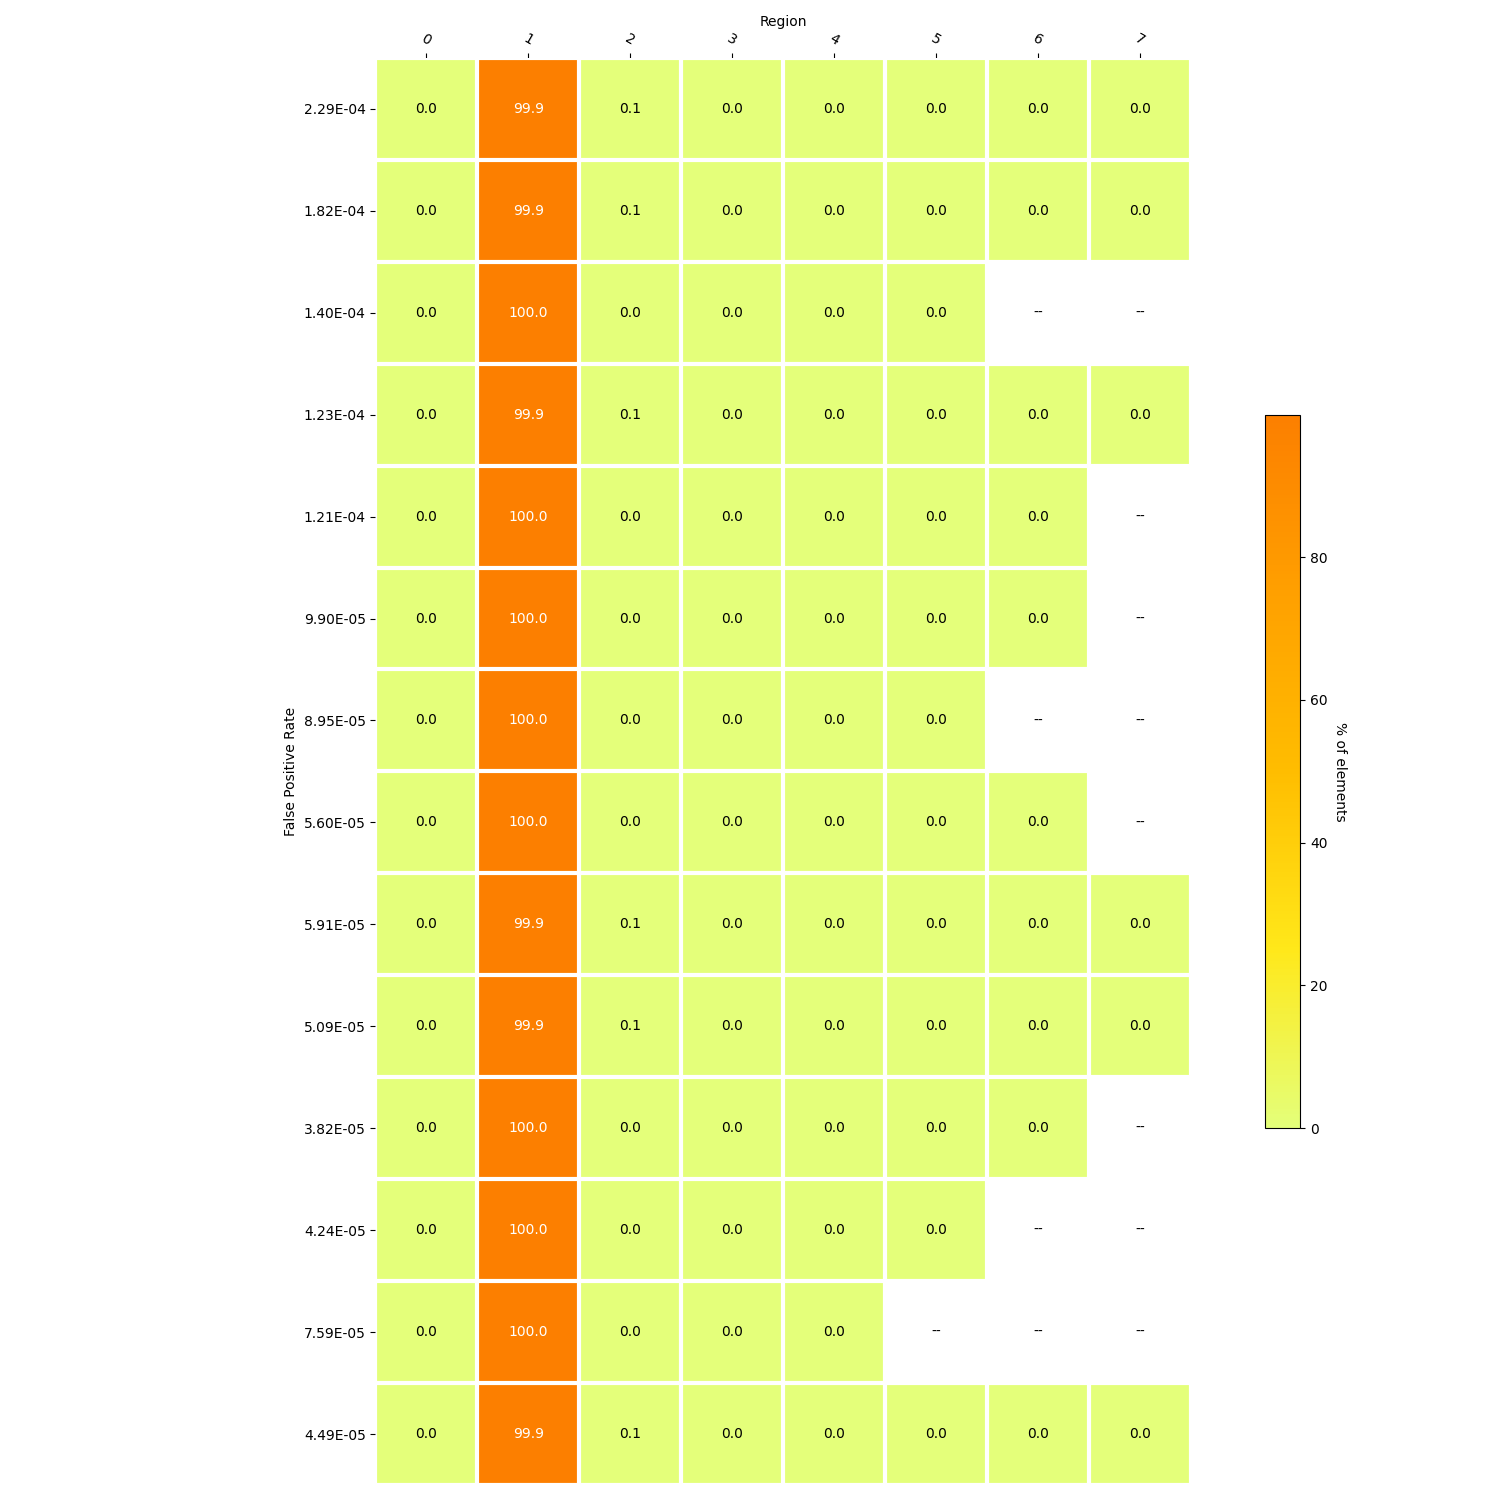
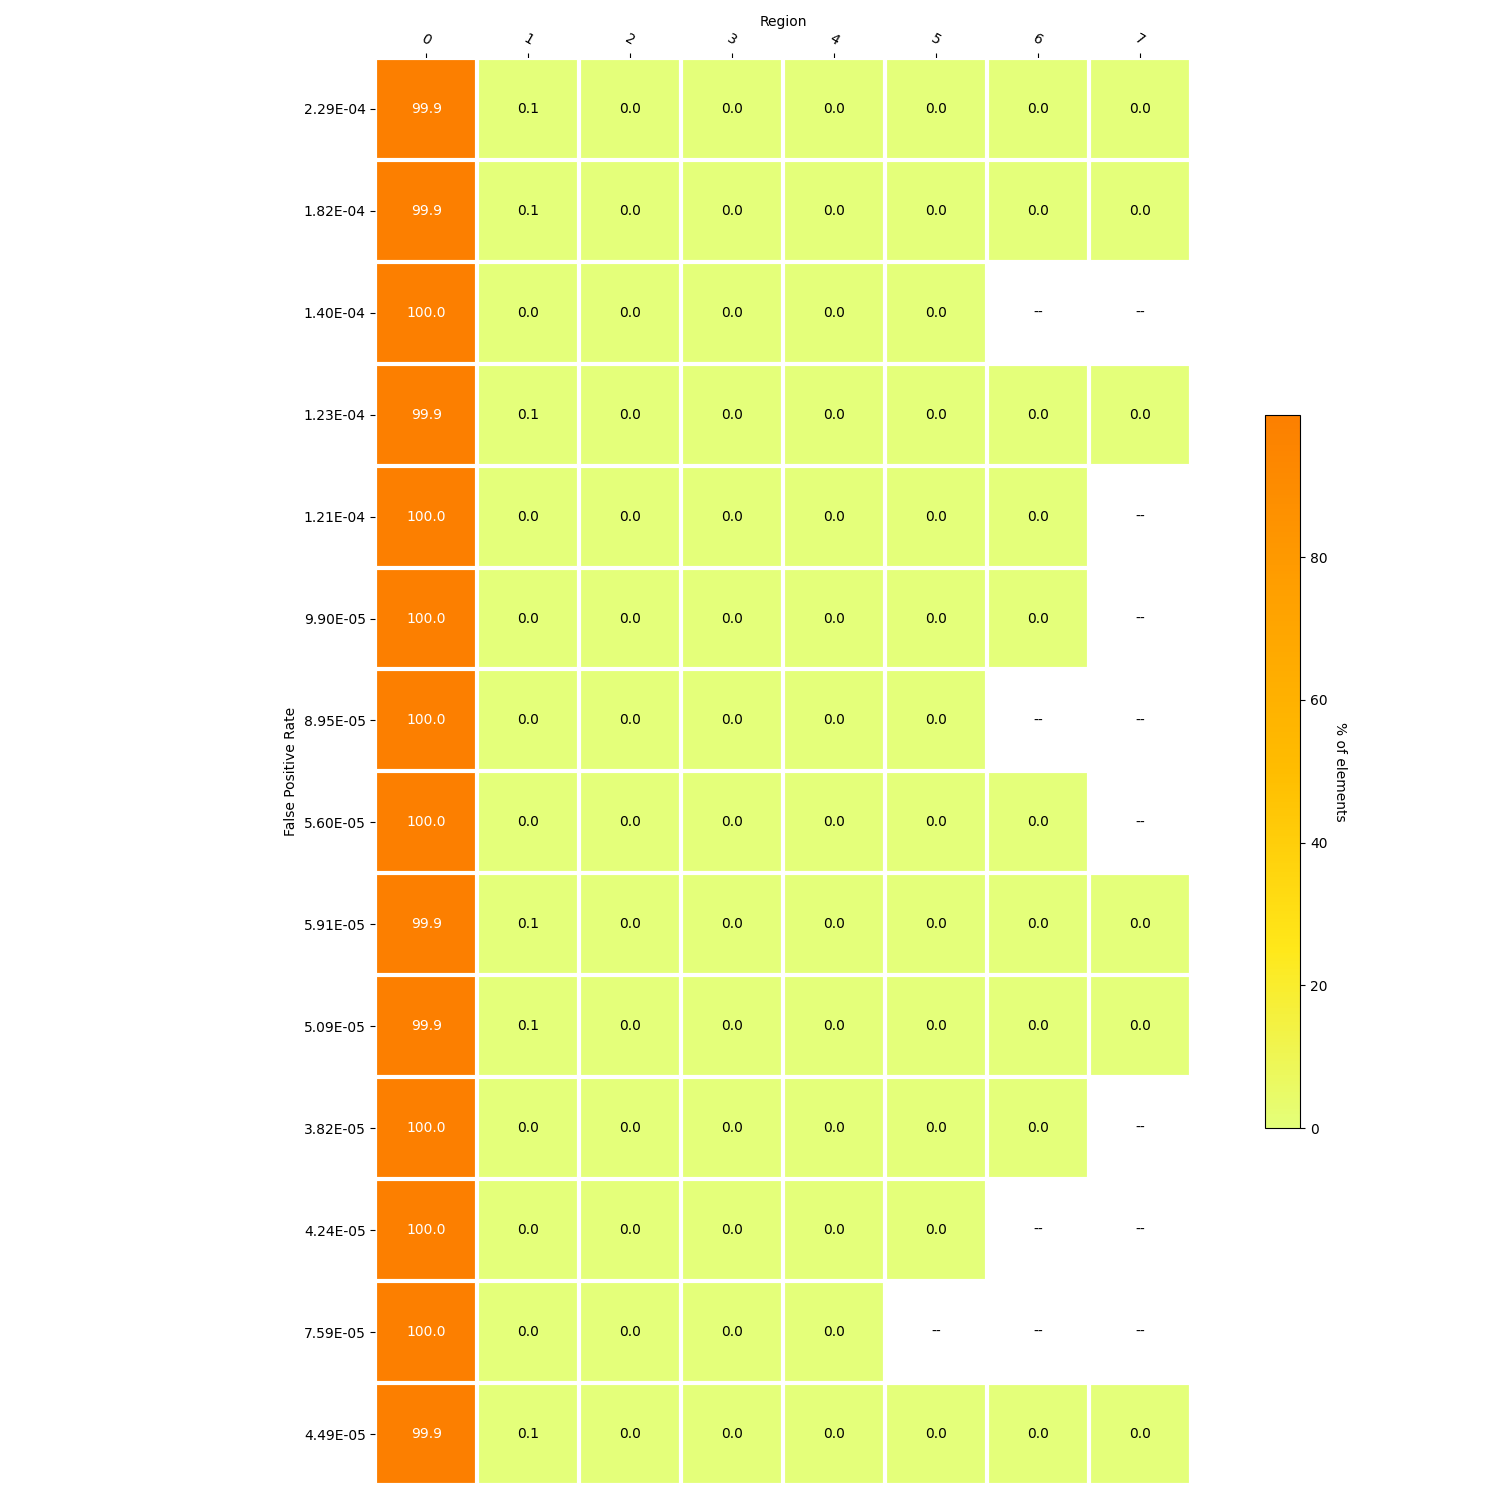
changed PLBF to generate correct regions

Changed region(s): [[0.2453, 0.0307, 0.3987, 1.0]]

diff --git a/bloom_filters/PLBF.py b/bloom_filters/PLBF.py
@@ -254,8 +254,9 @@ if __name__ == '__main__':
             for row in negative_data.itertuples(index=False):
                 sum_n_queried += row.query_count
                 ix = min(np.where(row.score < thresholds_opt)[0]) - 1
+                # print(thresholds_opt)
                 test_result += Bloom_Filters_opt[ix].test(row.url) * row.query_count
-                lookup_negative_logger_dict[ix+1] += row.query_count
+                lookup_negative_logger_dict[ix] += row.query_count
         else:
             ML_positive = len(negative_sample[negative_sample["score"] >=thresholds_opt[-2]])
             negative_data = negative_sample.loc[(negative_sample['score'] < thresholds_opt[-2]), ['score', "url"]]
@@ -263,7 +264,7 @@ if __name__ == '__main__':
                 # We test if its a positive from the bloom filter
                 ix = min(np.where(row.score < thresholds_opt)[0]) - 1
                 test_result += Bloom_Filters_opt[ix].test(row.url)
-                lookup_negative_logger_dict[ix+1] += 1
+                lookup_negative_logger_dict[ix] += 1
 
 
 
@@ -278,7 +279,13 @@ if __name__ == '__main__':
 
         print(f"test results: {test_result}")
         print(f"Test results from ML-model: {ML_positive}")
-        lookup_negative_logger_dict[0] = ML_positive
+        if len(thresholds_opt)-2 in lookup_negative_logger_dict:
+            print(f"trying to overwrite lookup_negative_logger_dict[{len(thresholds_opt)-2}] with ML_positive - exitting")
+            exit(1)
+        lookup_negative_logger_dict[len(thresholds_opt)-2] = ML_positive
+        print(lookup_negative_logger_dict)
+        print(f"thresholds_opt: {thresholds_opt}")
+        print(f"thresholds_opt len: {len(thresholds_opt)}")
         lookup_negative_logger_dict["FPR_actual"] = FPR
         lookup_negative_logger_dict["size"] = i
         print(f"negative lookup dict: {lookup_negative_logger_dict}")
@@ -297,15 +304,18 @@ if __name__ == '__main__':
         #     positive_data = positive_sample.loc[(positive_sample['score'] < thresholds_opt[-2]), ['score', "url", "query_count"]]
         #     for row in positive_data.itertuples(index=False):
         #         ix = min(np.where(row.score < thresholds_opt)[0]) - 1
-        #         lookup_positive_logger_dict[ix+1] += row.query_count
+        #         lookup_positive_logger_dict[ix] += row.query_count
         # else:
         ML_positive = len(positive_sample[positive_sample["score"] >=thresholds_opt[-2]])
         positive_data = positive_sample.loc[(positive_sample['score'] < thresholds_opt[-2]), ['score', "url"]]
         for row in positive_data.itertuples(index=False):
             ix = min(np.where(row.score < thresholds_opt)[0]) - 1
-            lookup_positive_logger_dict[ix + 1] += 1
+            lookup_positive_logger_dict[ix] += 1
 
-        lookup_positive_logger_dict[0] = ML_positive
+        if len(thresholds_opt)-2 in lookup_positive_logger_dict:
+            print(f"trying to overwrite lookup_positive_logger_dict[{len(thresholds_opt)-2}] with ML_positive - exitting")
+            exit(1)
+        lookup_positive_logger_dict[len(thresholds_opt)-2] = ML_positive
         lookup_positive_logger_dict["FPR_actual"] = FPR
         lookup_positive_logger_dict["size"] = i
 
